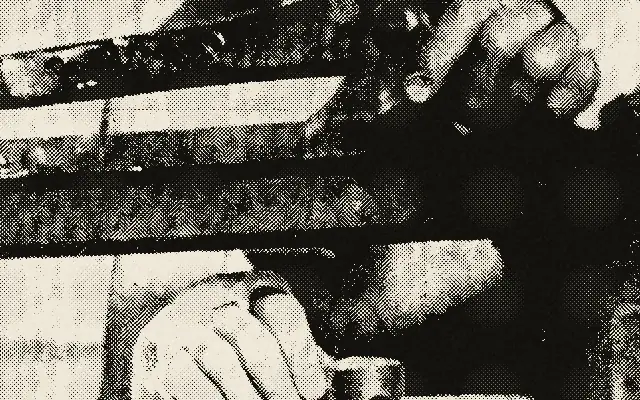
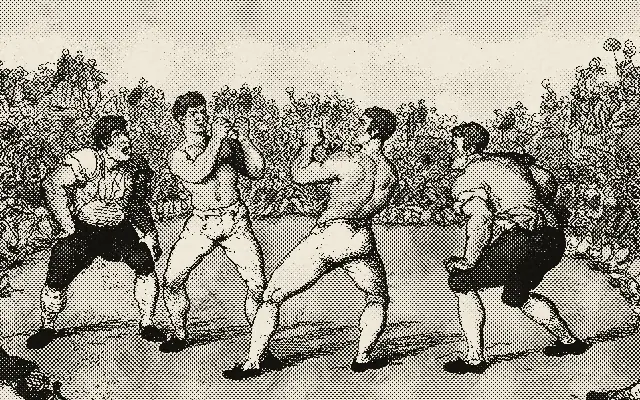
Changer l'image des catégories de poids et réduire les blocs À retenir

diff --git a/themes/lecoinduring/assets/css/main.css b/themes/lecoinduring/assets/css/main.css
@@ -478,6 +478,8 @@ section[id] { scroll-margin-top: 64px; }
 .prose h3, .prose th, .faq summary, .callout-title { font-family: var(--font-cond); }
 .prose > p:first-child::first-letter { float: left; font-family: var(--font-display); font-size: 5.4em; line-height: .8; padding: .07em .1em 0 0; color: var(--rouge); }
 .prose blockquote { font-size: 1.7rem; }
+/* bloc « À retenir » (citation contenant une liste) : corps de texte, pas citation mise en avant */
+.prose blockquote:has(ul, ol) { font-size: 1.12rem; line-height: 1.6; }
 .prose table { font-family: var(--font-body); }
 .callout p, .faq details p { font-family: var(--font-serif); font-size: 1.1rem; }
 .byline { padding-top: 14px; border-top: 1px solid var(--encre); max-width: 44rem; }

diff --git a/content/fr/blog/categories-de-poids-boxe-amateur-pro-pesee.md b/content/fr/blog/categories-de-poids-boxe-amateur-pro-pesee.md
@@ -2,13 +2,13 @@
 title: "Catégories de poids en boxe : amateur, pro, Jeux olympiques et pesée"
 description: "Les catégories de poids en boxe anglaise : les 17 divisions pro en livres et en kilos, la grille amateur française, les Jeux olympiques et le rôle de la pesée."
 date: 2026-10-31T08:00:00+01:00
-lastmod: 2026-10-31T08:00:00+01:00
+lastmod: 2026-10-31T17:00:00+01:00
 categories: ["Analyses"]
 tags: ["catégories de poids", "pesée", "boxe anglaise", "règles"]
 image: "/images/blog/categories-de-poids-boxe-amateur-pro-pesee.webp"
-imageAlt: "Gros plan sur les mains d'un boxeur qui règle le curseur d'une balance à fléau lors d'une pesée, photographie de presse de 1942"
-imageCredit: "Photo : auteur inconnu (domaine public), via Wikimedia Commons. Image retouchée (trame de journal)."
-imageSource: "https://commons.wikimedia.org/wiki/File:Manuel_Ortiz_weigh-in_1942.jpg"
+imageAlt: "Gravure ancienne d'un combat de boxe à mains nues en plein air : deux boxeurs torse nu s'affrontent, entourés de leurs seconds et de la foule"
+imageCredit: "Gravure : Thomas Rowlandson, 1810 (domaine public), via Wikimedia Commons. Image retouchée (trame de journal)."
+imageSource: "https://commons.wikimedia.org/wiki/File:Boxing_match_for_200_guineas,_betwixt_Dutch_Sam_and_Medley_Fought_31_May_1810,_on_Moulsey_Hurst_near_Hampton_-_DPLA_-_67a9957e6ab86c505119cf58a0c17e35.jpg"
 faq:
   - question: "Combien y a-t-il de catégories de poids en boxe professionnelle ?"
     answer: "Dix-sept, des poids pailles (jusqu'à 105 livres, environ 47,6 kg) aux poids lourds (plus de 200 livres, environ 90,7 kg). Le WBC en reconnaît une dix-huitième, les poids bridger, entre les lourds-légers et les lourds, jusqu'à 224 livres, environ 101,6 kg."
